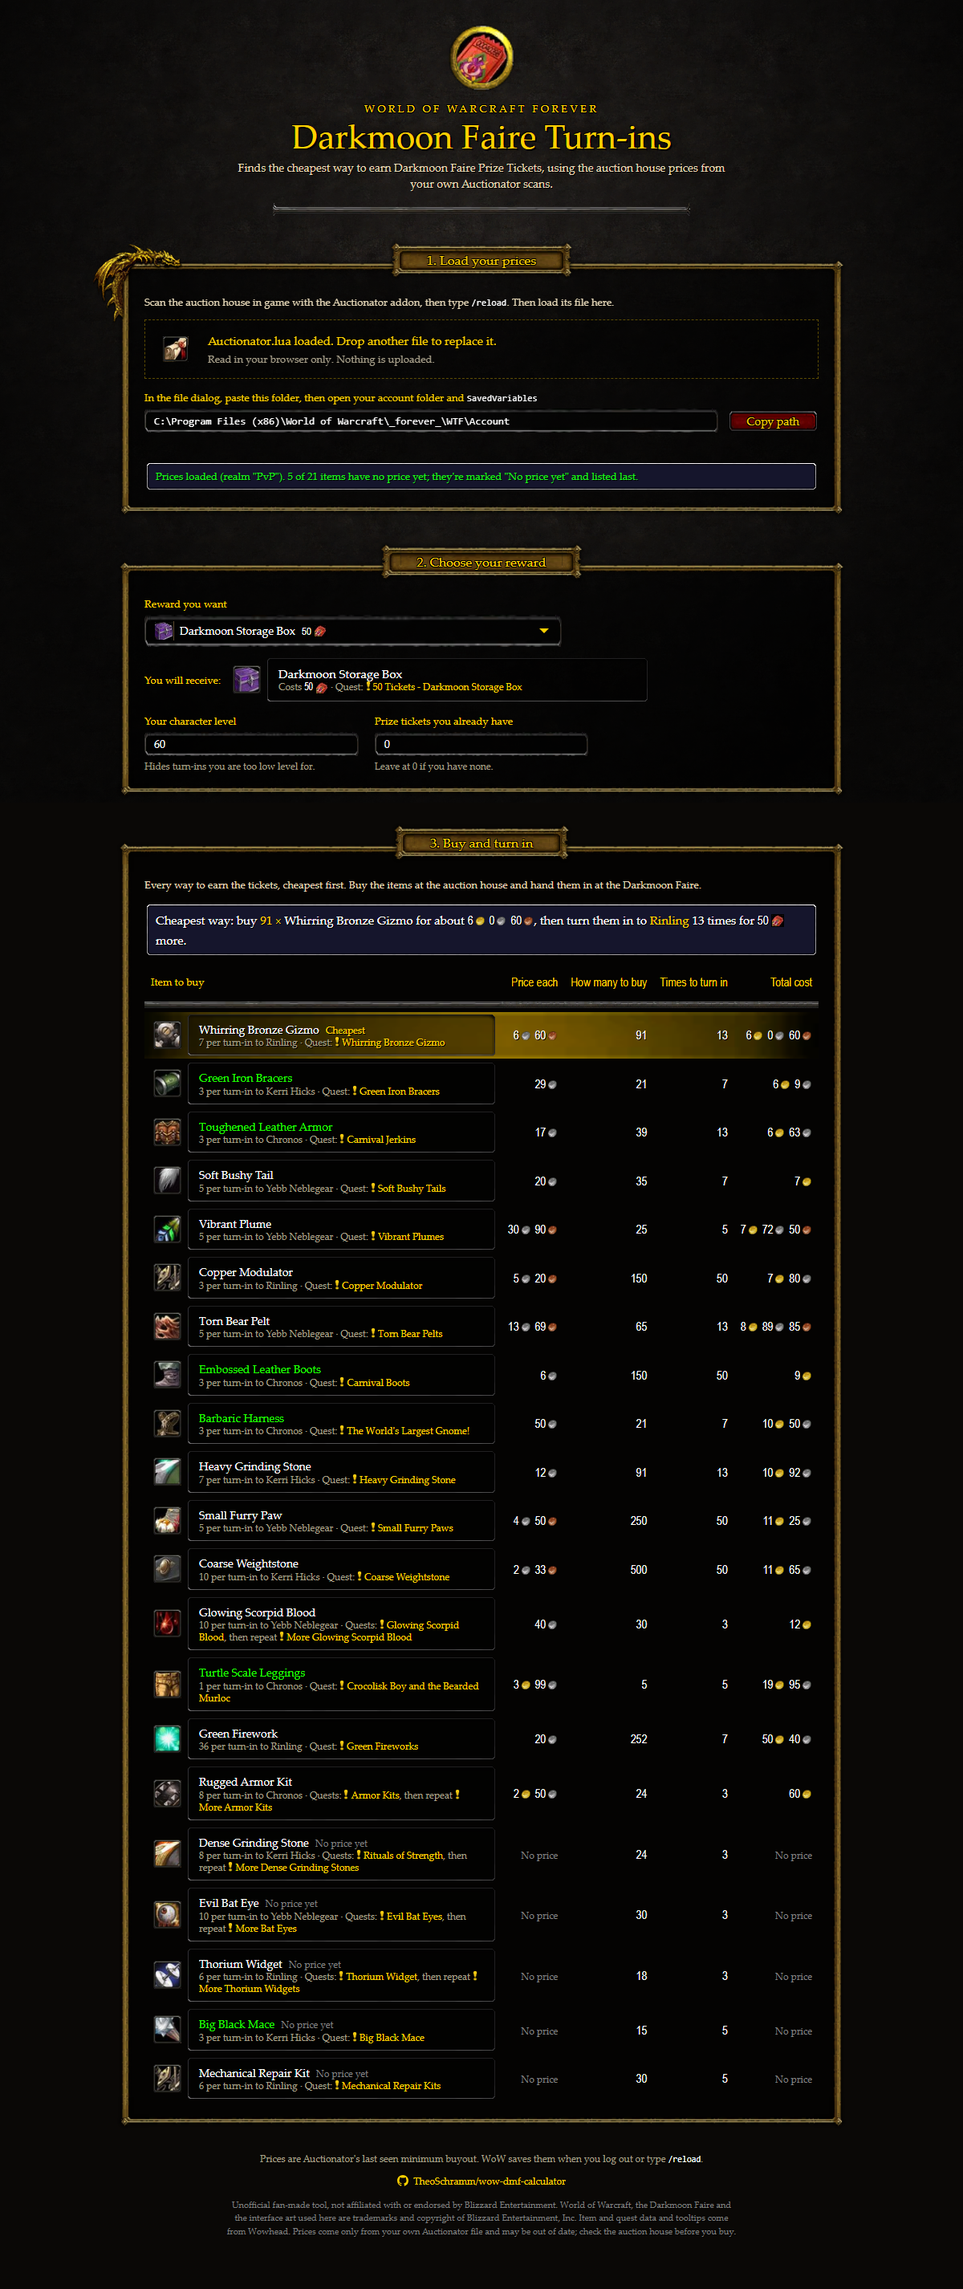
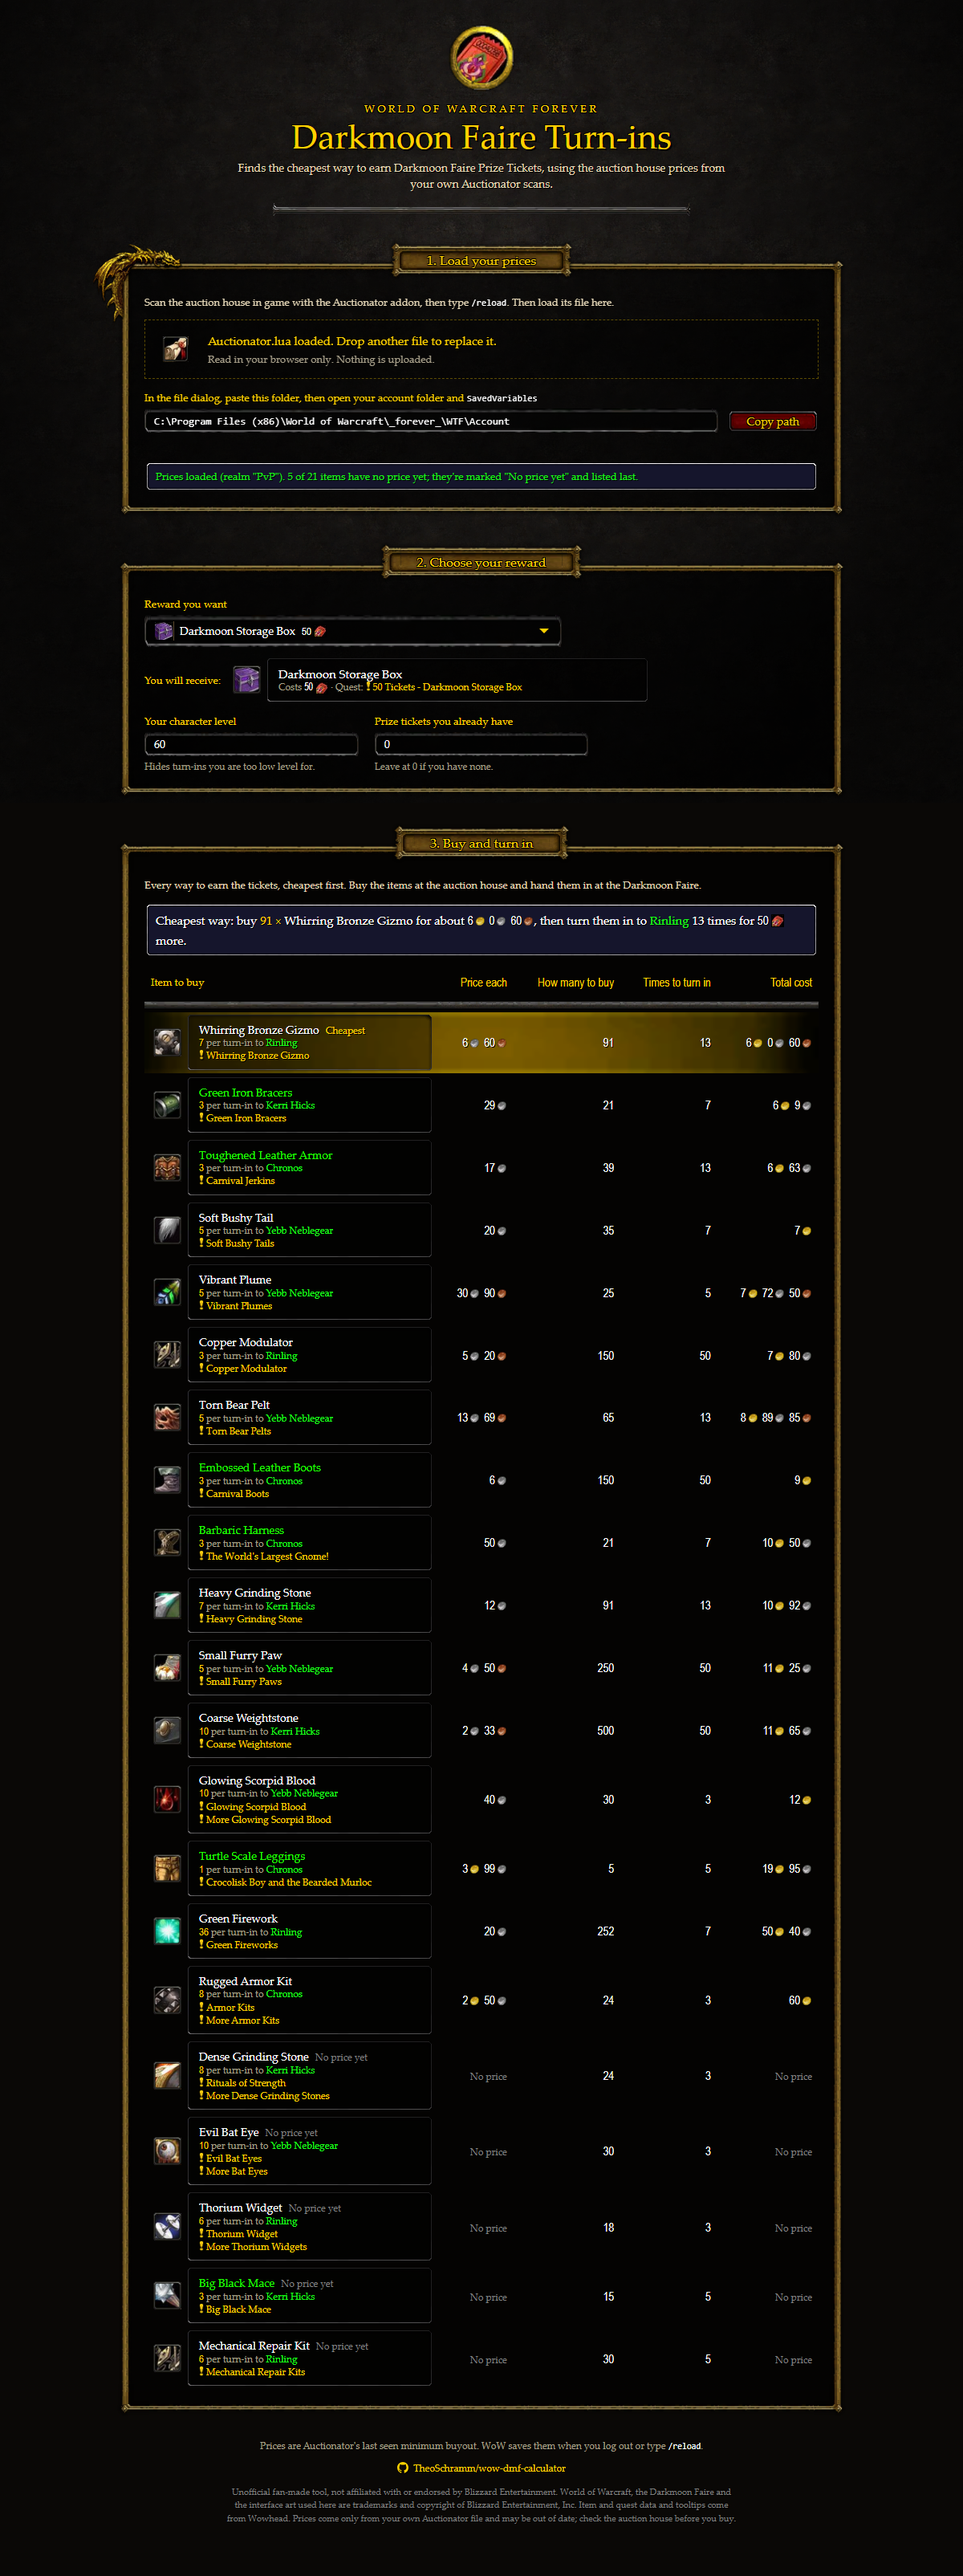
Turn-in rows: count, NPC link, one quest per line
"<n> per turn-in to <NPC>" with the count in gold and the NPC as a green
Wowhead link, then each quest on its own line with the quest "!" icon.
NPC IDs (incl. Gelvas Grimegate for the "enough tickets" message) from
Wowhead's Forever data.

diff --git a/components/results-table.js b/components/results-table.js
@@ -4,12 +4,7 @@
   const UI = (window.UI = window.UI || {});
   const {esc, wowhead} = UI;
 
-  function questsLine(r) {
-    const links = r.questList.map(wowhead.questLink);
-    return links.length > 1
-      ? `Quests: ${links[0]}, then repeat ${links.slice(1).join(", ")}`
-      : `Quest: ${links[0]}`;
-  }
+  const npcOf = r => ({id: r.npcId, name: r.npc});
 
   function itemCell(r, isBest) {
     const tags = [];
@@ -20,7 +15,8 @@
         ${wowhead.itemIcon(r, {category: r.category})}
         <span class="item__name">
           <span>${wowhead.itemLink(r)}${tags.join("")}</span>
-          <span class="item__meta">${r.qnt} per turn-in to ${esc(r.npc)} &middot; ${questsLine(r)}</span>
+          <span class="item__meta"><span class="item__qty">${r.qnt}</span> per turn-in to ${wowhead.npcLink(npcOf(r))}</span>
+          <span class="item__quests">${r.questList.map(q => `<span>${wowhead.questLink(q)}</span>`).join("")}</span>
         </span>
       </div>`;
   }
@@ -50,7 +46,7 @@
     return {
       render(rows, {goal, needed, hasPrices}) {
         if (needed <= 0) {
-          summary.innerHTML = `You already have enough tickets for ${wowhead.itemLink(goal)}. Take them to Gelvas Grimegate at the Darkmoon Faire.`;
+          summary.innerHTML = `You already have enough tickets for ${wowhead.itemLink(goal)}. Take them to ${wowhead.npcLink(DMF.TICKET_NPC)} at the Darkmoon Faire.`;
           body.innerHTML = "";
           return;
         }
@@ -59,7 +55,7 @@
           summary.textContent = "Load your Auctionator.lua in step 1 to see which turn-in is cheapest.";
         } else if (best) {
           summary.innerHTML = `Cheapest way: buy <strong>${best.items} &times; ${wowhead.itemLink(best)}</strong>
-            for about ${UI.money(best.total * 10000)}, then turn them in to <strong>${esc(best.npc)}</strong>
+            for about ${UI.money(best.total * 10000)}, then turn them in to ${wowhead.npcLink(npcOf(best))}
             ${best.quests} time${best.quests === 1 ? "" : "s"} for ${wowhead.tickets(needed)} more.`;
         } else {
           summary.textContent = "None of these items has a price in your Auctionator file yet. Search for them at the auction house, then /reload.";

diff --git a/dmf.js b/dmf.js
@@ -38,10 +38,18 @@ const ITEMS = [
   name, id, category, tier, qnt, icon, quality, questList: quests.map(([id, name]) => ({id, name})),
   minLevel: MIN_LEVEL[tier-1], price: null, live: false,
 }));
-// Darkmoon Faire NPC who takes each category's turn-ins (warcrafttavern.com/forever/guides/darkmoon-faire).
-const NPC = {"Animal Parts": "Yebb Neblegear", "Blacksmithing": "Kerri Hicks", "Engineering": "Rinling", "Leatherworking": "Chronos"};
-for (const it of ITEMS) it.npc = NPC[it.category];
+// Darkmoon Faire NPC who takes each category's turn-ins (warcrafttavern.com/forever/guides/darkmoon-faire);
+// NPC IDs from Wowhead's Forever data. Gelvas Grimegate redeems the tickets for rewards.
+const NPC = {
+  "Animal Parts": {id: 14829, name: "Yebb Neblegear"},
+  "Blacksmithing": {id: 14832, name: "Kerri Hicks"},
+  "Engineering": {id: 14841, name: "Rinling"},
+  "Leatherworking": {id: 14833, name: "Chronos"},
+};
+const TICKET_NPC = {id: 14828, name: "Gelvas Grimegate"};
+for (const it of ITEMS) { it.npc = NPC[it.category].name; it.npcId = NPC[it.category].id; }
 const WOWHEAD_ITEM_URL = id => `https://www.wowhead.com/forever/item=${id}`;
+const WOWHEAD_NPC_URL = id => `https://www.wowhead.com/forever/npc=${id}`;
 const WOWHEAD_QUEST_URL = id => `https://www.wowhead.com/forever/quest=${id}`;
 const ICON_URL = (icon, size = "medium") => `https://wow.zamimg.com/images/wow/icons/${size}/${icon}.jpg`;
 const TICKET_VALUE = [1,4,8,12,20];
@@ -163,7 +171,8 @@ function calculate(items, {tickets = 0, target = 50, rep = 0, strict = false, ca
     (a.total == null) - (b.total == null) || (a.total ?? 0) - (b.total ?? 0) || a.quests - b.quests || a.name.localeCompare(b.name));
 }
 
-const DMF = {ITEMS, TICKET_VALUE, REP_PER_QUEST, REP_CAP, MIN_LEVEL, MAX_LEVEL, GOALS, WOWHEAD_ITEM_URL, WOWHEAD_QUEST_URL, ICON_URL,
+const DMF = {ITEMS, TICKET_VALUE, REP_PER_QUEST, REP_CAP, MIN_LEVEL, MAX_LEVEL, GOALS, TICKET_NPC,
+  WOWHEAD_ITEM_URL, WOWHEAD_QUEST_URL, WOWHEAD_NPC_URL, ICON_URL,
   parseAuctionator, realmPrices, applyPrices, calculate};
 if (typeof module !== "undefined") module.exports = DMF; else globalThis.DMF = DMF;
 })();

diff --git a/css/styles.css b/css/styles.css
@@ -675,6 +675,14 @@ code {
 .item__title:hover, .item__title:focus-visible { text-decoration: underline; }
 .item__meta { font-size: 12px; color: var(--muted); }
 
+/* "<n> per turn-in to <NPC>" then one quest per line */
+.item__qty { color: var(--normal); font-family: var(--font-number); font-size: 13px; }
+.item__quests { display: grid; font-size: 12px; line-height: 1.35; }
+
+/* NPC names in the friendly-NPC green */
+.npc-link { color: var(--green); text-decoration: none; }
+.npc-link:hover, .npc-link:focus-visible { text-decoration: underline; color: var(--highlight); }
+
 /* quest links in the quest log's yellow */
 .quest-link { color: var(--normal); text-decoration: none; }
 .quest-link:hover, .quest-link:focus-visible { text-decoration: underline; color: var(--highlight); }

diff --git a/components/wowhead.js b/components/wowhead.js
@@ -25,6 +25,9 @@
       return `<span class="tickets">${esc(n)}<img class="tickets__icon" src="${esc(DMF.ICON_URL("inv_misc_ticket_darkmoon_01", "small"))}"
           alt=" tickets" title="Darkmoon Faire Prize Ticket" onerror="this.replaceWith(' tickets')"></span>`;
     },
+    npcLink(npc) {
+      return `<a class="npc-link" href="${esc(DMF.WOWHEAD_NPC_URL(npc.id))}" target="_blank" rel="noopener">${esc(npc.name)}</a>`;
+    },
     questLink(quest) {
       return `<a class="quest-link" href="${esc(DMF.WOWHEAD_QUEST_URL(quest.id))}" target="_blank" rel="noopener"><span class="quest-link__icon" aria-hidden="true"></span>${esc(quest.name)}</a>`;
     },
